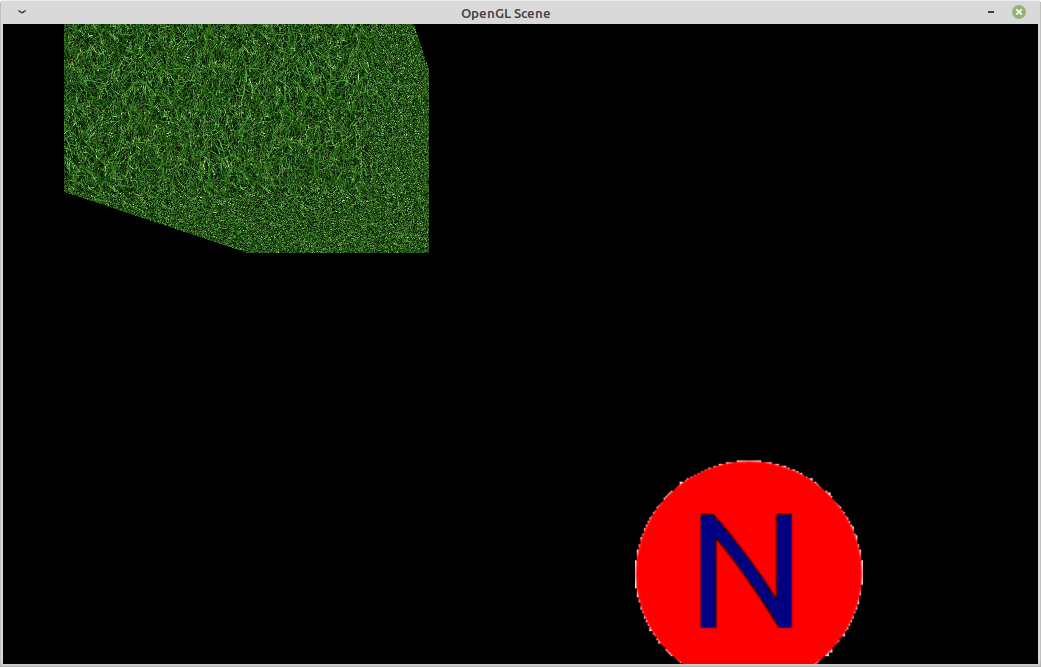
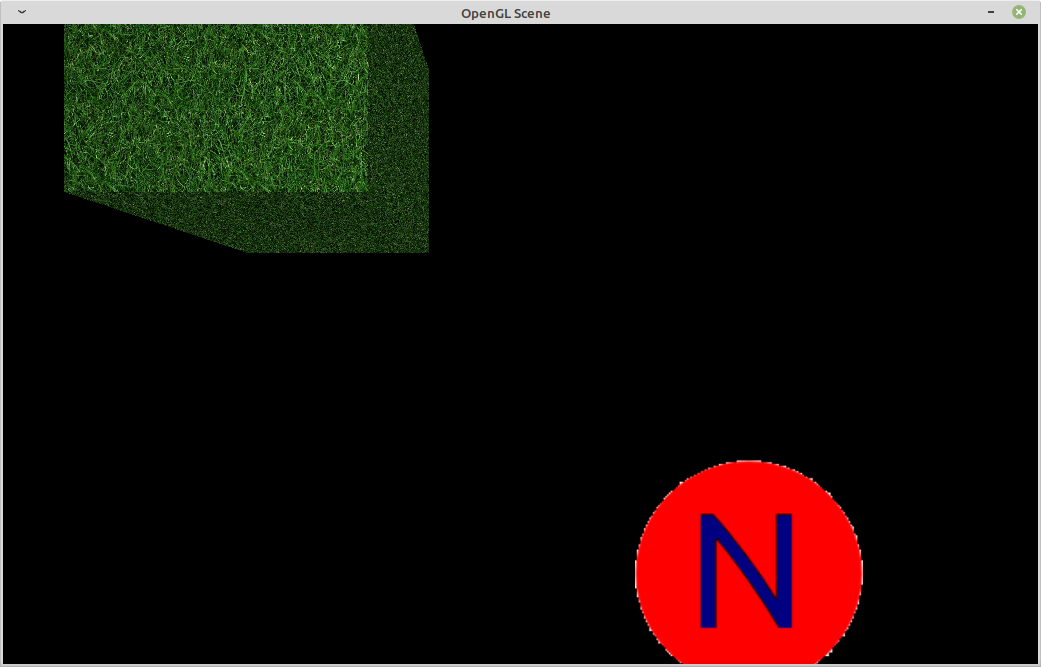
Random fixes

Changed region(s): [[0.0615, 0.03, 0.4304, 0.3898]]

diff --git a/src/main.cpp b/src/main.cpp
@@ -39,13 +39,6 @@
 #include "texture.h"
 #include "vertexarray.h"
 
-// TODO delete
-#define _2D 2
-#define _3D 3
-#define COL_CHANNELS 3 // components to defien one color (rgb = 3, rgba = 4, ...)
-#define TEX_CHANNELS 2 // dimension of textures coordinates
-#define VP_TRIANGLE 3 // Vertices per triangle
-
 Shader* setupShaders(const char* vertexPath, const char* fragmentPath, unsigned int count, ...) {
 	va_list args;
 	va_start(args, count);
@@ -127,38 +120,30 @@ int main(int argc, char* argv[]) {
 		RenderedObject root;
 		Camera camera;
 
-		glm::vec3 matColor(1.0f, 1.0f, 1.0f);
+		glm::vec4 matColor(1.0f, 1.0f, 1.0f, 1.0f);
 		glm::vec4 propert(0.5f, 0.5f, 0.5f, 50.0f);
 		Material defaultMat(matColor, propert);
 
 		glm::vec3 lightColor(1.0f, 1.0f, 1.0f);
-		glm::vec3 lightPos(0.0f, 1.0f, 0.0f);
+		glm::vec4 lightPos(0.0f, 1.0f, 0.0f, 1.0f);
 		Light sun = Light(lightPos, lightColor);
 
 		auto defaultShader = setupShaders("resources/Shaders/Tex.vert", "resources/Shaders/Tex.frag", 2, "v_Position", "v_UV");
 
 		auto lightShader = setupShaders("resources/Shaders/lightTex.vert", "resources/Shaders/lightTex.frag", 3, "v_Position", "v_UV", "v_Normal");
 
-		// TODO color * texture in shader
-		// shader->SetUniform4f("u_Color", 0.2f, 0.3f, 0.8f, 1.0f);
-
 		Texture texture("resources/img/NonoreveLogo.png");
 		Texture cubeTexture("resources/img/grass.png");
-		//shader->SetUniform1i("u_Texture", 0);
 
-
-// 		const unsigned int VERTICES = 4;
-		const unsigned int TRIANGLES = 2;
-		const unsigned int POS_DIM = _2D; // either 2D or 3D
-		const unsigned int BUF_COMPONENTS = 3; // number of arrays
-		const unsigned int sizeOfFloat = static_cast<unsigned int>(sizeof(float));
-
+		
 		// TODO include in geometry
-		unsigned int indices[] = {
-			0, 1, 2,
-			2, 3, 0
-		};
-		//IndexBuffer ib(indices, TRIANGLES * VP_TRIANGLE);
+// 		const unsigned int VERTICES = 4;
+// 		const unsigned int TRIANGLES = 2;
+// 		unsigned int indices[] = {
+// 			0, 1, 2,
+// 			2, 3, 0
+// 		};
+// 		IndexBuffer ib(indices, TRIANGLES * VP_TRIANGLE);
 
 		VertexArray squareVA;
 		Geometry* square = new Square();

diff --git a/include/material.h b/include/material.h
@@ -36,15 +36,15 @@ struct lightComponents {
 class Material {
     private:
     lightComponents m_Light;
-    glm::vec3 m_Color;
+    glm::vec4 m_Color;
 
     public:
-    inline Material() : m_Light(), m_Color ( glm::vec3 ( 1.0f, 1.0f, 1.0f ) ){};
-    inline Material ( glm::vec3 color, glm::vec4 lightComponents ) : m_Light ( {lightComponents.x, lightComponents.y, lightComponents.z, lightComponents.w} ), m_Color ( color ){};
+    inline Material() : m_Light(), m_Color ( glm::vec4 ( 1.0f, 1.0f, 1.0f, 1.0f ) ){};
+    inline Material ( glm::vec4 color, glm::vec4 lightComponents ) : m_Light ( {lightComponents.x, lightComponents.y, lightComponents.z, lightComponents.w} ), m_Color ( color ){};
 	inline glm::vec4 getComponents(){
 		return m_Light.asVector();
 	}
-	inline glm::vec3 getColor(){
+	inline glm::vec4 getColor(){
 		return m_Color;
 	}
 };

diff --git a/src/rendering/RenderedObject.cpp b/src/rendering/RenderedObject.cpp
@@ -104,10 +104,10 @@ void RenderedObject::Afficher(std::stack<glm::mat4>& matrices, Camera camera, Li
 	m_Shader->SetUniformMat4f("u_Projection", camera.getProjectionM());
 	m_Shader->SetUniformMat4f("u_ModelView", modelView);
 	m_Shader->SetUniform1i("u_Texture", 0); // TEXTURE_SLOT
+	m_Shader->SetUniformVec4f("u_Color", m_Material->getColor());
 	m_Shader->SetUniformVec4f("u_K", m_Material->getComponents());
-	m_Shader->SetUniformVec3f("u_Color", m_Material->getColor());
-	m_Shader->SetUniformVec3f("u_LightPosition", sun.m_Position);
 	m_Shader->SetUniformVec3f("u_LightColor", sun.m_Color);
+	m_Shader->SetUniformVec3f("u_LightPosition", sun.m_Position);
 	m_Shader->SetUniformVec3f("u_CameraPosition", camera.getPosition());
 
 	glDrawArrays(GL_TRIANGLES, 0, m_Geometry->getNbVertices());

diff --git a/include/light.h b/include/light.h
@@ -5,9 +5,9 @@
 
 class Light {
 	public :
-		glm::vec3 m_Position;
+		glm::vec4 m_Position;
 		glm::vec3 m_Color;
-		inline Light(glm::vec3 position, glm::vec3 color) : m_Position(position), m_Color(color) {}
+		inline Light(glm::vec4 position, glm::vec3 color) : m_Position(position), m_Color(color) {}
 
 };
 

diff --git a/README.md b/README.md
@@ -1,9 +1,32 @@
 # OpenGLScene
-Par Noé Boonstra
+By Noé Boonstra, Kilian Cannet and Pierre Cartigny
 
-Projet étudiant OpenGL.
+OpenGL student project
 
-Screenshot du dernier résultat obtenu :
+Screenshot of the last result :
 ![alt text](lastBuild.png)
 
-Bien penser à target cmake dans /build ou un autre dossier de gitignore.
+
+Using :
+
+OpenGL 4.0 
+GLSL 140
+SDL2
+SDL2_image
+glew
+glm
+
+
+Platforms :
+Ubuntu 18.04 - GNU
+Windows 10 - VS 2019
+Windows 7 - VS 2015
+
+
+Features :
+
+OpenGL calls abstracted into classes
+OpenGL Errors catching
+Recursive Scene Objects
+Controllable Camera
+OBJ File loader
